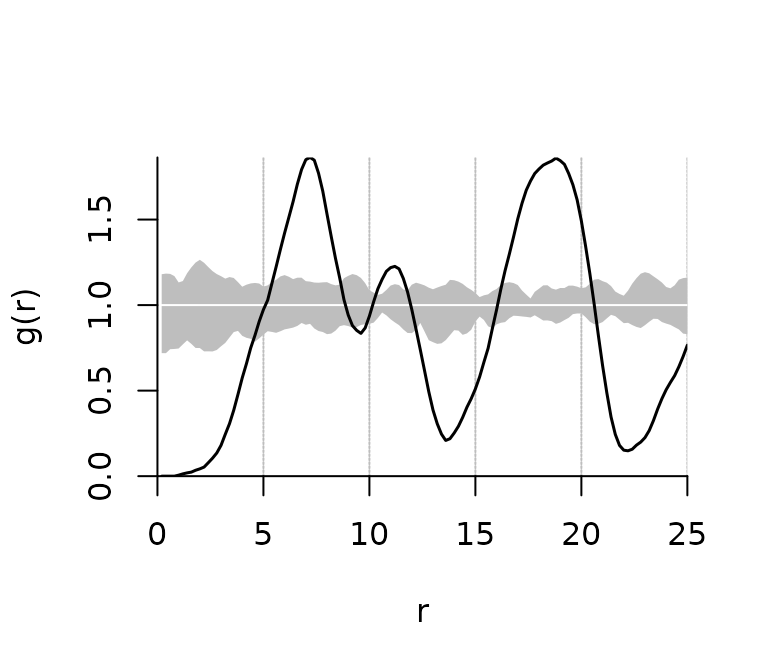
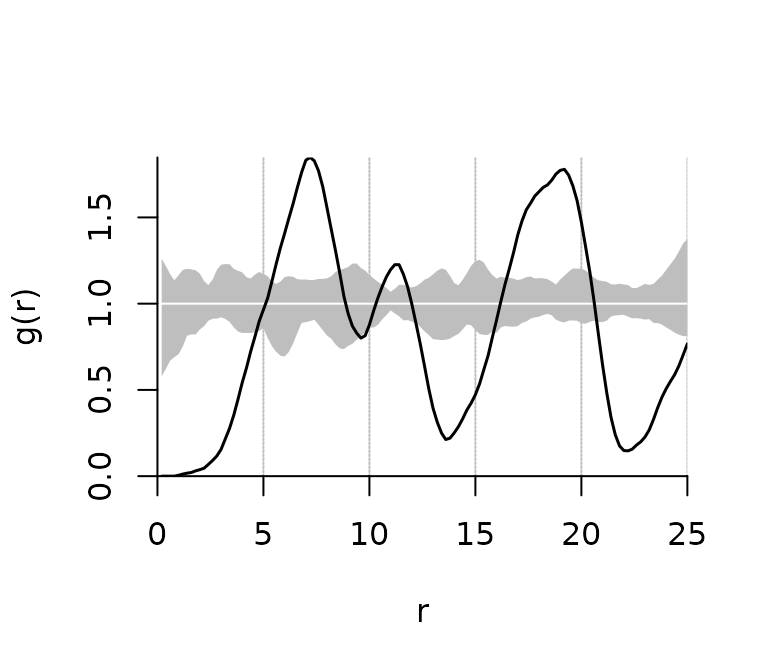
Built site for apcf: 0.1.6.901@e7294c4

diff --git a/reference/plot.fv_pcf.html b/reference/plot.fv_pcf.html
@@ -208,26 +208,28 @@ drawn about the plotting region, see <code><a href='https://rdrr.io/r/graphics/p
     <div class='dont-index'><p><code><a href='pat2dists.html'>pat2dists()</a></code>, <code><a href='dists2pcf.html'>dists2pcf()</a></code></p></div>
 
     <h2 class="hasAnchor" id="examples"><a class="anchor" href="#examples"></a>Examples</h2>
-    <pre class="examples"><div class='input'><span class='co'># it's advised against setting n_sim &lt; 199</span>
-<span class='va'>ds</span> <span class='op'>&lt;-</span> <span class='fu'><a href='pat2dists.html'>pat2dists</a></span><span class='op'>(</span>area<span class='op'>=</span><span class='va'>sim_area_wkb</span>, pattern<span class='op'>=</span><span class='va'>sim_pat_reg_wkb</span>,
-                max_dist<span class='op'>=</span><span class='fl'>25</span>, n_sim<span class='op'>=</span><span class='fl'>3</span><span class='op'>)</span>
-
-<span class='co'># derive PCF and envelope</span>
-<span class='va'>pcf</span> <span class='op'>&lt;-</span> <span class='fu'><a href='dists2pcf.html'>dists2pcf</a></span><span class='op'>(</span><span class='va'>ds</span>, r<span class='op'>=</span><span class='fl'>0.2</span>, r_max<span class='op'>=</span><span class='fl'>25</span>, stoyan<span class='op'>=</span><span class='fl'>0.15</span>, n_rank<span class='op'>=</span><span class='fl'>1</span><span class='op'>)</span>
-
-<span class='co'># a simple plot</span>
-<span class='fu'><a href='https://rdrr.io/r/graphics/plot.default.html'>plot</a></span><span class='op'>(</span>x<span class='op'>=</span><span class='va'>pcf</span>, xlim<span class='op'>=</span><span class='fu'><a href='https://rdrr.io/r/base/c.html'>c</a></span><span class='op'>(</span><span class='fl'>0</span>, <span class='fl'>20</span><span class='op'>)</span>, ylim<span class='op'>=</span><span class='fu'><a href='https://rdrr.io/r/base/c.html'>c</a></span><span class='op'>(</span><span class='fl'>0</span>, <span class='fl'>2.2</span><span class='op'>)</span><span class='op'>)</span>
-</div><div class='img'><img src='plot.fv_pcf-1.png' alt='' width='700' height='433' /></div><div class='input'>
-<span class='co'># a panel of four plots</span>
-<span class='va'>op</span> <span class='op'>&lt;-</span> <span class='fu'><a href='https://rdrr.io/r/graphics/par.html'>par</a></span><span class='op'>(</span>mfrow<span class='op'>=</span><span class='fu'><a href='https://rdrr.io/r/base/c.html'>c</a></span><span class='op'>(</span><span class='fl'>2</span>,<span class='fl'>2</span><span class='op'>)</span>, oma<span class='op'>=</span><span class='fu'><a href='https://rdrr.io/r/base/c.html'>c</a></span><span class='op'>(</span><span class='fl'>3</span>,<span class='fl'>3</span>,<span class='fl'>0</span>,<span class='fl'>0</span><span class='op'>)</span>, mar<span class='op'>=</span><span class='fu'><a href='https://rdrr.io/r/base/c.html'>c</a></span><span class='op'>(</span><span class='fl'>0</span>,<span class='fl'>0</span>,<span class='fl'>2</span>,<span class='fl'>2</span><span class='op'>)</span>,
-          mgp<span class='op'>=</span><span class='fu'><a href='https://rdrr.io/r/base/c.html'>c</a></span><span class='op'>(</span><span class='fl'>2</span>,<span class='fl'>0.5</span>,<span class='fl'>0</span><span class='op'>)</span>, tcl<span class='op'>=</span><span class='op'>-</span><span class='fl'>0.3</span><span class='op'>)</span>
-<span class='fu'><a href='https://rdrr.io/r/graphics/plot.default.html'>plot</a></span><span class='op'>(</span><span class='va'>pcf</span>, xaxis<span class='op'>=</span><span class='st'>'t'</span>, yaxis<span class='op'>=</span><span class='st'>'o'</span>, ann<span class='op'>=</span><span class='cn'>FALSE</span><span class='op'>)</span>
-<span class='fu'><a href='https://rdrr.io/r/graphics/plot.default.html'>plot</a></span><span class='op'>(</span><span class='va'>pcf</span>, xaxis<span class='op'>=</span><span class='st'>'t'</span>, yaxis<span class='op'>=</span><span class='st'>'t'</span>, ann<span class='op'>=</span><span class='cn'>FALSE</span><span class='op'>)</span>
-<span class='fu'><a href='https://rdrr.io/r/graphics/plot.default.html'>plot</a></span><span class='op'>(</span><span class='va'>pcf</span>, xaxis<span class='op'>=</span><span class='st'>'o'</span>, yaxis<span class='op'>=</span><span class='st'>'o'</span>, ann<span class='op'>=</span><span class='cn'>FALSE</span><span class='op'>)</span>
-<span class='fu'><a href='https://rdrr.io/r/graphics/plot.default.html'>plot</a></span><span class='op'>(</span><span class='va'>pcf</span>, xaxis<span class='op'>=</span><span class='st'>'o'</span>, yaxis<span class='op'>=</span><span class='st'>'t'</span><span class='op'>)</span>
-</div><div class='img'><img src='plot.fv_pcf-2.png' alt='' width='700' height='433' /></div><div class='input'><span class='fu'><a href='https://rdrr.io/r/graphics/par.html'>par</a></span><span class='op'>(</span><span class='va'>op</span><span class='op'>)</span>
-
-</div></pre>
+    <pre class="examples"><span class='r-in'><span class='co'># it's advised against setting n_sim &lt; 199</span></span>
+<span class='r-in'><span class='va'>ds</span> <span class='op'>&lt;-</span> <span class='fu'><a href='pat2dists.html'>pat2dists</a></span><span class='op'>(</span>area<span class='op'>=</span><span class='va'>sim_area_wkb</span>, pattern<span class='op'>=</span><span class='va'>sim_pat_reg_wkb</span>,</span>
+<span class='r-in'>                max_dist<span class='op'>=</span><span class='fl'>25</span>, n_sim<span class='op'>=</span><span class='fl'>3</span><span class='op'>)</span></span>
+<span class='r-in'></span>
+<span class='r-in'><span class='co'># derive PCF and envelope</span></span>
+<span class='r-in'><span class='va'>pcf</span> <span class='op'>&lt;-</span> <span class='fu'><a href='dists2pcf.html'>dists2pcf</a></span><span class='op'>(</span><span class='va'>ds</span>, r<span class='op'>=</span><span class='fl'>0.2</span>, r_max<span class='op'>=</span><span class='fl'>25</span>, stoyan<span class='op'>=</span><span class='fl'>0.15</span>, n_rank<span class='op'>=</span><span class='fl'>1</span><span class='op'>)</span></span>
+<span class='r-in'></span>
+<span class='r-in'><span class='co'># a simple plot</span></span>
+<span class='r-in'><span class='fu'><a href='https://rdrr.io/r/graphics/plot.default.html'>plot</a></span><span class='op'>(</span>x<span class='op'>=</span><span class='va'>pcf</span>, xlim<span class='op'>=</span><span class='fu'><a href='https://rdrr.io/r/base/c.html'>c</a></span><span class='op'>(</span><span class='fl'>0</span>, <span class='fl'>20</span><span class='op'>)</span>, ylim<span class='op'>=</span><span class='fu'><a href='https://rdrr.io/r/base/c.html'>c</a></span><span class='op'>(</span><span class='fl'>0</span>, <span class='fl'>2.2</span><span class='op'>)</span><span class='op'>)</span></span>
+<span class='r-plt img'><img src='plot.fv_pcf-1.png' alt='' width='700' height='433' /></span>
+<span class='r-in'></span>
+<span class='r-in'><span class='co'># a panel of four plots</span></span>
+<span class='r-in'><span class='va'>op</span> <span class='op'>&lt;-</span> <span class='fu'><a href='https://rdrr.io/r/graphics/par.html'>par</a></span><span class='op'>(</span>mfrow<span class='op'>=</span><span class='fu'><a href='https://rdrr.io/r/base/c.html'>c</a></span><span class='op'>(</span><span class='fl'>2</span>,<span class='fl'>2</span><span class='op'>)</span>, oma<span class='op'>=</span><span class='fu'><a href='https://rdrr.io/r/base/c.html'>c</a></span><span class='op'>(</span><span class='fl'>3</span>,<span class='fl'>3</span>,<span class='fl'>0</span>,<span class='fl'>0</span><span class='op'>)</span>, mar<span class='op'>=</span><span class='fu'><a href='https://rdrr.io/r/base/c.html'>c</a></span><span class='op'>(</span><span class='fl'>0</span>,<span class='fl'>0</span>,<span class='fl'>2</span>,<span class='fl'>2</span><span class='op'>)</span>,</span>
+<span class='r-in'>          mgp<span class='op'>=</span><span class='fu'><a href='https://rdrr.io/r/base/c.html'>c</a></span><span class='op'>(</span><span class='fl'>2</span>,<span class='fl'>0.5</span>,<span class='fl'>0</span><span class='op'>)</span>, tcl<span class='op'>=</span><span class='op'>-</span><span class='fl'>0.3</span><span class='op'>)</span></span>
+<span class='r-in'><span class='fu'><a href='https://rdrr.io/r/graphics/plot.default.html'>plot</a></span><span class='op'>(</span><span class='va'>pcf</span>, xaxis<span class='op'>=</span><span class='st'>'t'</span>, yaxis<span class='op'>=</span><span class='st'>'o'</span>, ann<span class='op'>=</span><span class='cn'>FALSE</span><span class='op'>)</span></span>
+<span class='r-in'><span class='fu'><a href='https://rdrr.io/r/graphics/plot.default.html'>plot</a></span><span class='op'>(</span><span class='va'>pcf</span>, xaxis<span class='op'>=</span><span class='st'>'t'</span>, yaxis<span class='op'>=</span><span class='st'>'t'</span>, ann<span class='op'>=</span><span class='cn'>FALSE</span><span class='op'>)</span></span>
+<span class='r-in'><span class='fu'><a href='https://rdrr.io/r/graphics/plot.default.html'>plot</a></span><span class='op'>(</span><span class='va'>pcf</span>, xaxis<span class='op'>=</span><span class='st'>'o'</span>, yaxis<span class='op'>=</span><span class='st'>'o'</span>, ann<span class='op'>=</span><span class='cn'>FALSE</span><span class='op'>)</span></span>
+<span class='r-in'><span class='fu'><a href='https://rdrr.io/r/graphics/plot.default.html'>plot</a></span><span class='op'>(</span><span class='va'>pcf</span>, xaxis<span class='op'>=</span><span class='st'>'o'</span>, yaxis<span class='op'>=</span><span class='st'>'t'</span><span class='op'>)</span></span>
+<span class='r-plt img'><img src='plot.fv_pcf-2.png' alt='' width='700' height='433' /></span>
+<span class='r-in'><span class='fu'><a href='https://rdrr.io/r/graphics/par.html'>par</a></span><span class='op'>(</span><span class='va'>op</span><span class='op'>)</span></span>
+<span class='r-in'></span>
+</pre>
   </div>
   <div class="col-md-3 hidden-xs hidden-sm" id="pkgdown-sidebar">
     <nav id="toc" data-toggle="toc" class="sticky-top">

diff --git a/reference/pat2dists.html b/reference/pat2dists.html
@@ -198,7 +198,7 @@ objects within the study area without overlap. They are used for correcting
 the biased pcf and constructing a pointwise critical envelope (cf. Nuske
 et al. 2009).</p>
 <p>Measuring distances between objects and permutation of the pattern is done
-with <a href='https://trac.osgeo.org/geos'>GEOS</a>.</p>
+with <a href='https://libgeos.org'>GEOS</a>.</p>
     <h2 class="hasAnchor" id="references"><a class="anchor" href="#references"></a>References</h2>
 
     <p>Nuske, R.S., Sprauer, S. and Saborowski, J. (2009): Adapting the
@@ -210,18 +210,20 @@ https://doi.org/10.1016/j.foreco.2009.09.050</p>
     <div class='dont-index'><p><code><a href='dists2pcf.html'>dists2pcf()</a></code>, <code><a href='plot.fv_pcf.html'>plot.fv_pcf()</a></code></p></div>
 
     <h2 class="hasAnchor" id="examples"><a class="anchor" href="#examples"></a>Examples</h2>
-    <pre class="examples"><div class='input'><span class='co'># it's advised against setting n_sim &lt; 199</span>
-<span class='va'>ds</span> <span class='op'>&lt;-</span> <span class='fu'>pat2dists</span><span class='op'>(</span>area<span class='op'>=</span><span class='va'>sim_area_wkb</span>, pattern<span class='op'>=</span><span class='va'>sim_pat_reg_wkb</span>,
-                max_dist<span class='op'>=</span><span class='fl'>25</span>, n_sim<span class='op'>=</span><span class='fl'>3</span><span class='op'>)</span>
-
-<span class='co'># verbose and returns one randomized pattern for debugging</span>
-<span class='va'>ds</span> <span class='op'>&lt;-</span> <span class='fu'>pat2dists</span><span class='op'>(</span>area<span class='op'>=</span><span class='va'>sim_area_wkb</span>, pattern<span class='op'>=</span><span class='va'>sim_pat_reg_wkb</span>,
-                max_dist<span class='op'>=</span><span class='fl'>5</span>, n_sim<span class='op'>=</span><span class='fl'>3</span>, verbose<span class='op'>=</span><span class='cn'>TRUE</span>, save_pattern<span class='op'>=</span><span class='cn'>TRUE</span><span class='op'>)</span>
-</div><div class='output co'>#&gt; dists: e</div><div class='input'>
-<span class='kw'>if</span> <span class='op'>(</span><span class='fu'><a href='https://rdrr.io/r/base/ns-load.html'>requireNamespace</a></span><span class='op'>(</span><span class='st'>"sf"</span>, quietly<span class='op'>=</span><span class='cn'>TRUE</span><span class='op'>)</span><span class='op'>)</span>
-  <span class='fu'><a href='https://rdrr.io/r/graphics/plot.default.html'>plot</a></span><span class='op'>(</span><span class='fu'>sf</span><span class='fu'>::</span><span class='fu'><a href='https://r-spatial.github.io/sf/reference/st_as_sfc.html'>st_as_sfc</a></span><span class='op'>(</span><span class='fu'><a href='https://rdrr.io/r/base/attr.html'>attr</a></span><span class='op'>(</span><span class='va'>ds</span>, <span class='st'>'randPattern'</span><span class='op'>)</span><span class='op'>)</span><span class='op'>)</span>
-</div><div class='img'><img src='pat2dists-1.png' alt='' width='700' height='433' /></div><div class='input'>
-</div></pre>
+    <pre class="examples"><span class='r-in'><span class='co'># it's advised against setting n_sim &lt; 199</span></span>
+<span class='r-in'><span class='va'>ds</span> <span class='op'>&lt;-</span> <span class='fu'>pat2dists</span><span class='op'>(</span>area<span class='op'>=</span><span class='va'>sim_area_wkb</span>, pattern<span class='op'>=</span><span class='va'>sim_pat_reg_wkb</span>,</span>
+<span class='r-in'>                max_dist<span class='op'>=</span><span class='fl'>25</span>, n_sim<span class='op'>=</span><span class='fl'>3</span><span class='op'>)</span></span>
+<span class='r-in'></span>
+<span class='r-in'><span class='co'># verbose and returns one randomized pattern for debugging</span></span>
+<span class='r-in'><span class='va'>ds</span> <span class='op'>&lt;-</span> <span class='fu'>pat2dists</span><span class='op'>(</span>area<span class='op'>=</span><span class='va'>sim_area_wkb</span>, pattern<span class='op'>=</span><span class='va'>sim_pat_reg_wkb</span>,</span>
+<span class='r-in'>                max_dist<span class='op'>=</span><span class='fl'>5</span>, n_sim<span class='op'>=</span><span class='fl'>3</span>, verbose<span class='op'>=</span><span class='cn'>TRUE</span>, save_pattern<span class='op'>=</span><span class='cn'>TRUE</span><span class='op'>)</span></span>
+<span class='r-out co'><span class='r-pr'>#&gt;</span> dists: e</span>
+<span class='r-in'></span>
+<span class='r-in'><span class='kw'>if</span> <span class='op'>(</span><span class='fu'><a href='https://rdrr.io/r/base/ns-load.html'>requireNamespace</a></span><span class='op'>(</span><span class='st'>"sf"</span>, quietly<span class='op'>=</span><span class='cn'>TRUE</span><span class='op'>)</span><span class='op'>)</span></span>
+<span class='r-in'>  <span class='fu'><a href='https://rdrr.io/r/graphics/plot.default.html'>plot</a></span><span class='op'>(</span><span class='fu'>sf</span><span class='fu'>::</span><span class='fu'><a href='https://r-spatial.github.io/sf/reference/st_as_sfc.html'>st_as_sfc</a></span><span class='op'>(</span><span class='fu'><a href='https://rdrr.io/r/base/attr.html'>attr</a></span><span class='op'>(</span><span class='va'>ds</span>, <span class='st'>'randPattern'</span><span class='op'>)</span><span class='op'>)</span><span class='op'>)</span></span>
+<span class='r-plt img'><img src='pat2dists-1.png' alt='' width='700' height='433' /></span>
+<span class='r-in'></span>
+</pre>
   </div>
   <div class="col-md-3 hidden-xs hidden-sm" id="pkgdown-sidebar">
     <nav id="toc" data-toggle="toc" class="sticky-top">

diff --git a/reference/dists2pcf.html b/reference/dists2pcf.html
@@ -228,14 +228,14 @@ Methods of geometrical statistics. John Wiley &amp; Sons, Chichester.</p>
     <div class='dont-index'><p><code><a href='pat2dists.html'>pat2dists()</a></code>, <code><a href='plot.fv_pcf.html'>plot.fv_pcf()</a></code></p></div>
 
     <h2 class="hasAnchor" id="examples"><a class="anchor" href="#examples"></a>Examples</h2>
-    <pre class="examples"><div class='input'><span class='co'># it's advised against setting n_sim &lt; 199</span>
-<span class='va'>ds</span> <span class='op'>&lt;-</span> <span class='fu'><a href='pat2dists.html'>pat2dists</a></span><span class='op'>(</span>area<span class='op'>=</span><span class='va'>sim_area_wkb</span>, pattern<span class='op'>=</span><span class='va'>sim_pat_reg_wkb</span>,
-                max_dist<span class='op'>=</span><span class='fl'>25</span>, n_sim<span class='op'>=</span><span class='fl'>3</span><span class='op'>)</span>
-
-<span class='co'># derive PCF and envelope</span>
-<span class='va'>pcf</span> <span class='op'>&lt;-</span> <span class='fu'>dists2pcf</span><span class='op'>(</span><span class='va'>ds</span>, r<span class='op'>=</span><span class='fl'>0.2</span>, r_max<span class='op'>=</span><span class='fl'>25</span>, stoyan<span class='op'>=</span><span class='fl'>0.15</span>, n_rank<span class='op'>=</span><span class='fl'>1</span><span class='op'>)</span>
-
-</div></pre>
+    <pre class="examples"><span class='r-in'><span class='co'># it's advised against setting n_sim &lt; 199</span></span>
+<span class='r-in'><span class='va'>ds</span> <span class='op'>&lt;-</span> <span class='fu'><a href='pat2dists.html'>pat2dists</a></span><span class='op'>(</span>area<span class='op'>=</span><span class='va'>sim_area_wkb</span>, pattern<span class='op'>=</span><span class='va'>sim_pat_reg_wkb</span>,</span>
+<span class='r-in'>                max_dist<span class='op'>=</span><span class='fl'>25</span>, n_sim<span class='op'>=</span><span class='fl'>3</span><span class='op'>)</span></span>
+<span class='r-in'></span>
+<span class='r-in'><span class='co'># derive PCF and envelope</span></span>
+<span class='r-in'><span class='va'>pcf</span> <span class='op'>&lt;-</span> <span class='fu'>dists2pcf</span><span class='op'>(</span><span class='va'>ds</span>, r<span class='op'>=</span><span class='fl'>0.2</span>, r_max<span class='op'>=</span><span class='fl'>25</span>, stoyan<span class='op'>=</span><span class='fl'>0.15</span>, n_rank<span class='op'>=</span><span class='fl'>1</span><span class='op'>)</span></span>
+<span class='r-in'></span>
+</pre>
   </div>
   <div class="col-md-3 hidden-xs hidden-sm" id="pkgdown-sidebar">
     <nav id="toc" data-toggle="toc" class="sticky-top">

diff --git a/articles/intro.html b/articles/intro.html
@@ -149,12 +149,12 @@
 <span class="co">## Significance level of pointwise Monte Carlo test: 0.2</span>
 <span class="co">## </span>
 <span class="co">##     r           g       lwr      upr</span>
-<span class="co">## 1 0.2 0.000000000 0.7191732 1.180490</span>
-<span class="co">## 2 0.4 0.000000000 0.7189874 1.184121</span>
-<span class="co">## 3 0.6 0.000000000 0.7422047 1.182563</span>
-<span class="co">## 4 0.8 0.000000000 0.7435958 1.169558</span>
-<span class="co">## 5 1.0 0.005852701 0.7462398 1.132454</span>
-<span class="co">## 6 1.2 0.013436148 0.7704576 1.140673</span></code></pre></div>
+<span class="co">## 1 0.2 0.000000000 0.5785870 1.261504</span>
+<span class="co">## 2 0.4 0.000000000 0.6221219 1.217768</span>
+<span class="co">## 3 0.6 0.000000000 0.6705365 1.170929</span>
+<span class="co">## 4 0.8 0.000000000 0.6890234 1.135222</span>
+<span class="co">## 5 1.0 0.005320235 0.7077233 1.165979</span>
+<span class="co">## 6 1.2 0.012199424 0.7529246 1.195857</span></code></pre></div>
 </div>
 <div id="plotting-the-pcf" class="section level2">
 <h2 class="hasAnchor">
@@ -178,7 +178,7 @@
 <h2 class="hasAnchor">
 <a href="#technical-details" class="anchor"></a>Technical Details</h2>
 <p>The adapted pair-corelation functions was original implemented in the Geodatabase <code>PostGIS</code>. <code>PostGIS</code> offers all necessary geoprocessing methods and is easy to handle knowing databases and SQL. The need to create lots of temporary tables and countless transformations of geodata from WKB stored in the table to the <code>GEOS</code> format for geometric operations rendered the process quite slow.</p>
-<p>In this package the geometric operations (measuring distances between objects, buffers, intersects, and randomly moving objects) are carried out by <a href="https://trac.osgeo.org/geos"><code>GEOS</code></a>. The geodata is read and transformed to <code>GEOS</code> format only once. All further manipulations are within the <code>GEOS</code> world. The usage of the GEOS library was made possible by <a href="http://www.rcpp.org"><code>Rcpp</code></a>.</p>
+<p>In this package the geometric operations (measuring distances between objects, buffers, intersects, and randomly moving objects) are carried out by <a href="https://libgeos.org"><code>GEOS</code></a>. The geodata is read and transformed to <code>GEOS</code> format only once. All further manipulations are within the <code>GEOS</code> world. The usage of the GEOS library was made possible by <a href="http://www.rcpp.org"><code>Rcpp</code></a>.</p>
 </div>
 <div id="references" class="section level2">
 <h2 class="hasAnchor">

diff --git a/index.html b/index.html
@@ -107,7 +107,7 @@
 <code class="sourceCode R"><span class="fu"><a href="https://rdrr.io/r/utils/install.packages.html">install.packages</a></span><span class="op">(</span><span class="st">"apcf"</span><span class="op">)</span></code></pre></div>
 <p>and the development version is available from Github using the package remotes (formerly devtools)</p>
 <div class="sourceCode" id="cb2"><pre class="downlit sourceCode r">
-<code class="sourceCode R"><span class="kw">if</span><span class="op">(</span><span class="op">!</span><span class="kw"><a href="https://rdrr.io/r/base/library.html">require</a></span><span class="op">(</span><span class="st">"remotes"</span><span class="op">)</span><span class="op">)</span> <span class="fu"><a href="https://rdrr.io/r/utils/install.packages.html">install.packages</a></span><span class="op">(</span><span class="st">"remotes"</span><span class="op">)</span>
+<code class="sourceCode R"><span class="kw">if</span><span class="op">(</span><span class="op">!</span><span class="kw"><a href="https://rdrr.io/r/base/library.html">require</a></span><span class="op">(</span><span class="st"><a href="https://remotes.r-lib.org">"remotes"</a></span><span class="op">)</span><span class="op">)</span> <span class="fu"><a href="https://rdrr.io/r/utils/install.packages.html">install.packages</a></span><span class="op">(</span><span class="st">"remotes"</span><span class="op">)</span>
 <span class="fu">remotes</span><span class="fu">::</span><span class="fu">install_github</span><span class="op">(</span><span class="st">"rnuske/apcf"</span><span class="op">)</span></code></pre></div>
 </div>
 <div id="usage" class="section level3">
@@ -129,7 +129,7 @@
 <h3 class="hasAnchor">
 <a href="#links" class="anchor"></a>Links</h3>
 <ul>
-<li><a href="https://trac.osgeo.org/geos">GEOS</a></li>
+<li><a href="https://libgeos.org">GEOS</a></li>
 <li><a href="http://www.rcpp.org">Rcpp Website</a></li>
 <li><a href="https://github.com/r-spatial/sf">R package <code>sf</code>, a modern approach to geo data in R</a></li>
 </ul>

diff --git a/reference/sim_patterns.html b/reference/sim_patterns.html
@@ -198,10 +198,10 @@ gaps. Forest Ecology and Management, 259(1): 107–116.
 https://doi.org/10.1016/j.foreco.2009.09.050</p>
 
     <h2 class="hasAnchor" id="examples"><a class="anchor" href="#examples"></a>Examples</h2>
-    <pre class="examples"><div class='input'><span class='va'>ds</span> <span class='op'>&lt;-</span> <span class='fu'><a href='pat2dists.html'>pat2dists</a></span><span class='op'>(</span>area<span class='op'>=</span><span class='va'>sim_area_wkb</span>, pattern<span class='op'>=</span><span class='va'>sim_pat_reg_wkb</span>,
-                max_dist<span class='op'>=</span><span class='fl'>25</span>, n_sim<span class='op'>=</span><span class='fl'>3</span><span class='op'>)</span>
-
-</div></pre>
+    <pre class="examples"><span class='r-in'><span class='va'>ds</span> <span class='op'>&lt;-</span> <span class='fu'><a href='pat2dists.html'>pat2dists</a></span><span class='op'>(</span>area<span class='op'>=</span><span class='va'>sim_area_wkb</span>, pattern<span class='op'>=</span><span class='va'>sim_pat_reg_wkb</span>,</span>
+<span class='r-in'>                max_dist<span class='op'>=</span><span class='fl'>25</span>, n_sim<span class='op'>=</span><span class='fl'>3</span><span class='op'>)</span></span>
+<span class='r-in'></span>
+</pre>
   </div>
   <div class="col-md-3 hidden-xs hidden-sm" id="pkgdown-sidebar">
     <nav id="toc" data-toggle="toc" class="sticky-top">
